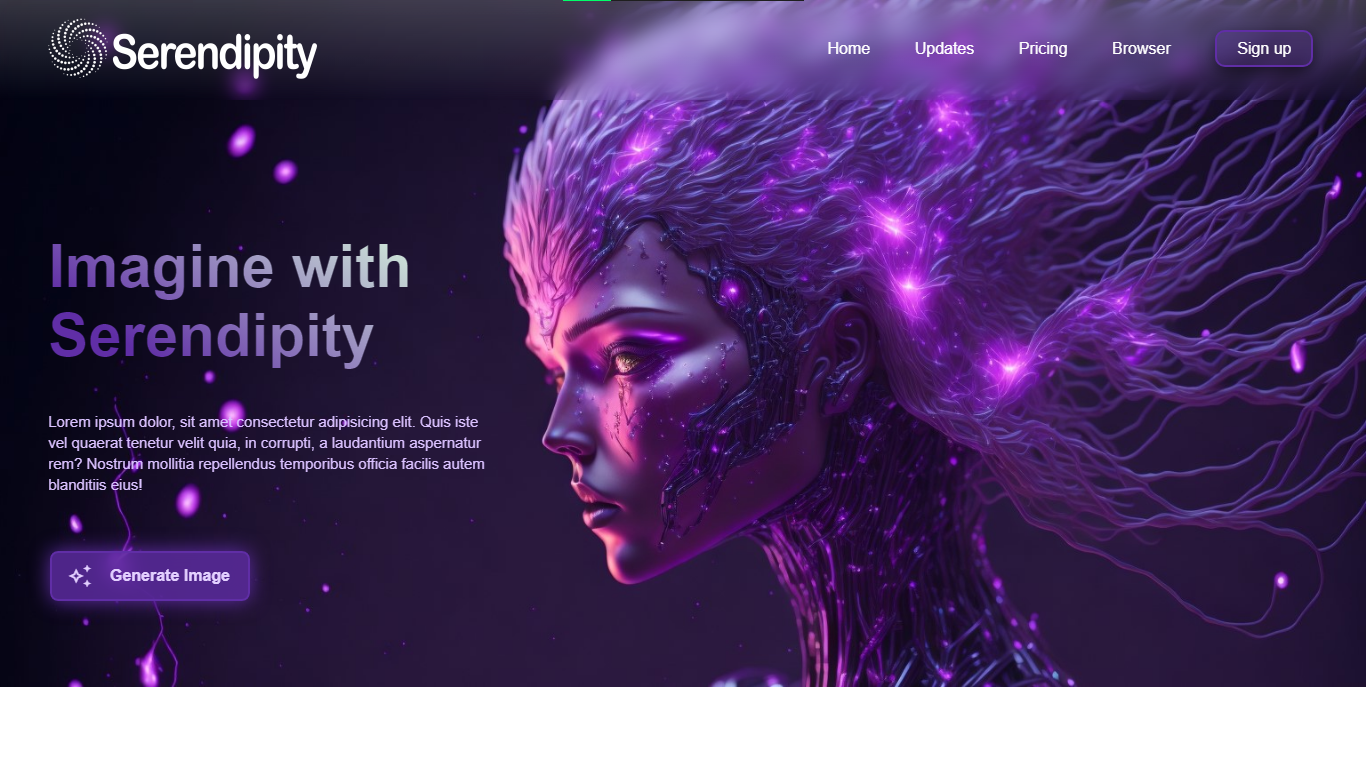
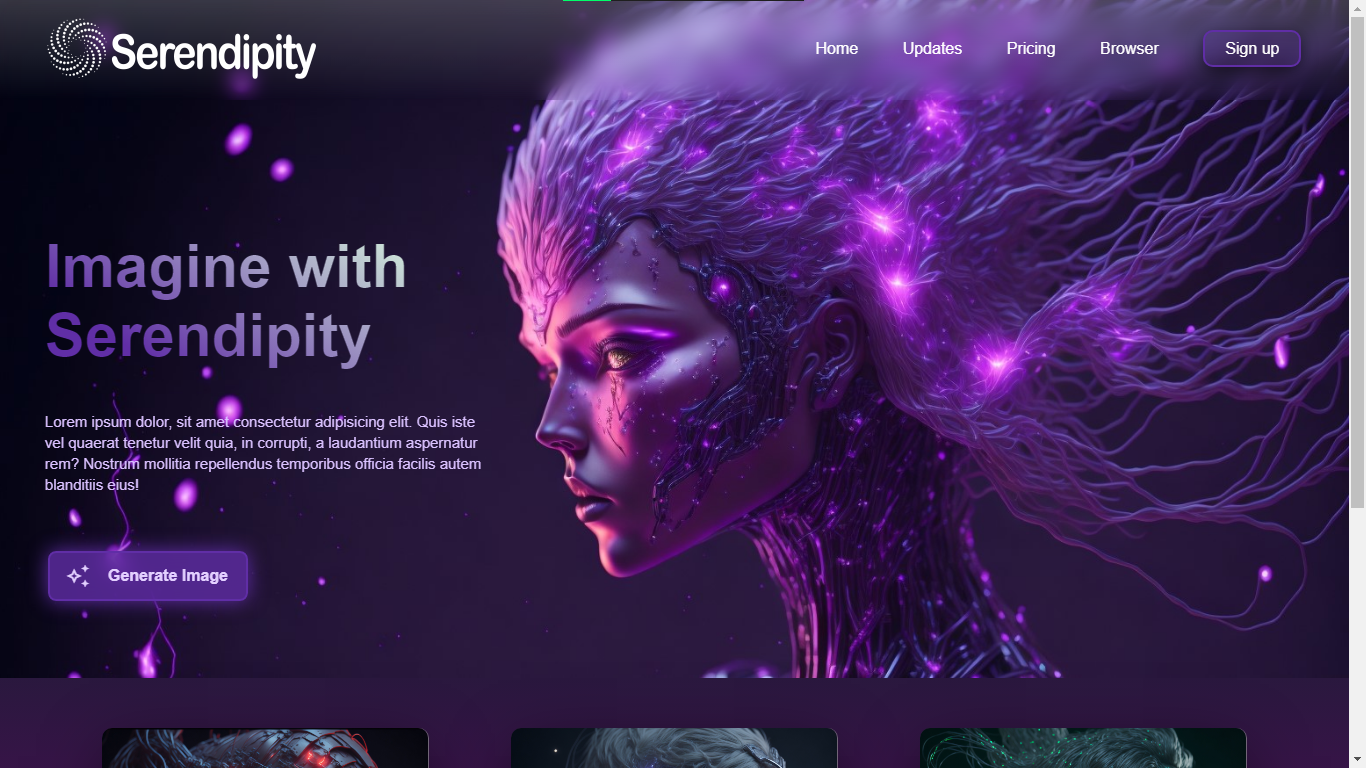
Updates

diff --git a/assets/index-Bfcp8OLX.css b/assets/index-Bfcp8OLX.css
@@ -1,0 +1,1 @@
+*,:before,:after{box-sizing:border-box;border-width:0;border-style:solid;border-color:#e5e7eb}:before,:after{--tw-content: ""}html,:host{line-height:1.5;-webkit-text-size-adjust:100%;-moz-tab-size:4;-o-tab-size:4;tab-size:4;font-family:ui-sans-serif,system-ui,sans-serif,"Apple Color Emoji","Segoe UI Emoji",Segoe UI Symbol,"Noto Color Emoji";font-feature-settings:normal;font-variation-settings:normal;-webkit-tap-highlight-color:transparent}body{margin:0;line-height:inherit}hr{height:0;color:inherit;border-top-width:1px}abbr:where([title]){-webkit-text-decoration:underline dotted;text-decoration:underline dotted}h1,h2,h3,h4,h5,h6{font-size:inherit;font-weight:inherit}a{color:inherit;text-decoration:inherit}b,strong{font-weight:bolder}code,kbd,samp,pre{font-family:ui-monospace,SFMono-Regular,Menlo,Monaco,Consolas,Liberation Mono,Courier New,monospace;font-feature-settings:normal;font-variation-settings:normal;font-size:1em}small{font-size:80%}sub,sup{font-size:75%;line-height:0;position:relative;vertical-align:baseline}sub{bottom:-.25em}sup{top:-.5em}table{text-indent:0;border-color:inherit;border-collapse:collapse}button,input,optgroup,select,textarea{font-family:inherit;font-feature-settings:inherit;font-variation-settings:inherit;font-size:100%;font-weight:inherit;line-height:inherit;color:inherit;margin:0;padding:0}button,select{text-transform:none}button,[type=button],[type=reset],[type=submit]{-webkit-appearance:button;background-color:transparent;background-image:none}:-moz-focusring{outline:auto}:-moz-ui-invalid{box-shadow:none}progress{vertical-align:baseline}::-webkit-inner-spin-button,::-webkit-outer-spin-button{height:auto}[type=search]{-webkit-appearance:textfield;outline-offset:-2px}::-webkit-search-decoration{-webkit-appearance:none}::-webkit-file-upload-button{-webkit-appearance:button;font:inherit}summary{display:list-item}blockquote,dl,dd,h1,h2,h3,h4,h5,h6,hr,figure,p,pre{margin:0}fieldset{margin:0;padding:0}legend{padding:0}ol,ul,menu{list-style:none;margin:0;padding:0}dialog{padding:0}textarea{resize:vertical}input::-moz-placeholder,textarea::-moz-placeholder{opacity:1;color:#9ca3af}input::placeholder,textarea::placeholder{opacity:1;color:#9ca3af}button,[role=button]{cursor:pointer}:disabled{cursor:default}img,svg,video,canvas,audio,iframe,embed,object{display:block;vertical-align:middle}img,video{max-width:100%;height:auto}[hidden]{display:none}*,:before,:after{--tw-border-spacing-x: 0;--tw-border-spacing-y: 0;--tw-translate-x: 0;--tw-translate-y: 0;--tw-rotate: 0;--tw-skew-x: 0;--tw-skew-y: 0;--tw-scale-x: 1;--tw-scale-y: 1;--tw-pan-x: ;--tw-pan-y: ;--tw-pinch-zoom: ;--tw-scroll-snap-strictness: proximity;--tw-gradient-from-position: ;--tw-gradient-via-position: ;--tw-gradient-to-position: ;--tw-ordinal: ;--tw-slashed-zero: ;--tw-numeric-figure: ;--tw-numeric-spacing: ;--tw-numeric-fraction: ;--tw-ring-inset: ;--tw-ring-offset-width: 0px;--tw-ring-offset-color: #fff;--tw-ring-color: rgb(59 130 246 / .5);--tw-ring-offset-shadow: 0 0 #0000;--tw-ring-shadow: 0 0 #0000;--tw-shadow: 0 0 #0000;--tw-shadow-colored: 0 0 #0000;--tw-blur: ;--tw-brightness: ;--tw-contrast: ;--tw-grayscale: ;--tw-hue-rotate: ;--tw-invert: ;--tw-saturate: ;--tw-sepia: ;--tw-drop-shadow: ;--tw-backdrop-blur: ;--tw-backdrop-brightness: ;--tw-backdrop-contrast: ;--tw-backdrop-grayscale: ;--tw-backdrop-hue-rotate: ;--tw-backdrop-invert: ;--tw-backdrop-opacity: ;--tw-backdrop-saturate: ;--tw-backdrop-sepia: }::backdrop{--tw-border-spacing-x: 0;--tw-border-spacing-y: 0;--tw-translate-x: 0;--tw-translate-y: 0;--tw-rotate: 0;--tw-skew-x: 0;--tw-skew-y: 0;--tw-scale-x: 1;--tw-scale-y: 1;--tw-pan-x: ;--tw-pan-y: ;--tw-pinch-zoom: ;--tw-scroll-snap-strictness: proximity;--tw-gradient-from-position: ;--tw-gradient-via-position: ;--tw-gradient-to-position: ;--tw-ordinal: ;--tw-slashed-zero: ;--tw-numeric-figure: ;--tw-numeric-spacing: ;--tw-numeric-fraction: ;--tw-ring-inset: ;--tw-ring-offset-width: 0px;--tw-ring-offset-color: #fff;--tw-ring-color: rgb(59 130 246 / .5);--tw-ring-offset-shadow: 0 0 #0000;--tw-ring-shadow: 0 0 #0000;--tw-shadow: 0 0 #0000;--tw-shadow-colored: 0 0 #0000;--tw-blur: ;--tw-brightness: ;--tw-contrast: ;--tw-grayscale: ;--tw-hue-rotate: ;--tw-invert: ;--tw-saturate: ;--tw-sepia: ;--tw-drop-shadow: ;--tw-backdrop-blur: ;--tw-backdrop-brightness: ;--tw-backdrop-contrast: ;--tw-backdrop-grayscale: ;--tw-backdrop-hue-rotate: ;--tw-backdrop-invert: ;--tw-backdrop-opacity: ;--tw-backdrop-saturate: ;--tw-backdrop-sepia: }.visible{visibility:visible}.fixed{position:fixed}.z-\[999\]{z-index:999}.ml-1{margin-left:.25rem}.ml-1\.5{margin-left:.375rem}.ml-\[0\.2vw\]{margin-left:.2vw}.mt-6{margin-top:1.5rem}.flex{display:flex}.grid{display:grid}.h-\[35vw\]{height:35vw}.h-screen{height:100vh}.w-1{width:.25rem}.w-1\/2{width:50%}.w-10{width:2.5rem}.w-32{width:8rem}.w-40{width:10rem}.w-\[35vw\]{width:35vw}.w-full{width:100%}.-translate-y-full{--tw-translate-y: -100%;transform:translate(var(--tw-translate-x),var(--tw-translate-y)) rotate(var(--tw-rotate)) skew(var(--tw-skew-x)) skewY(var(--tw-skew-y)) scaleX(var(--tw-scale-x)) scaleY(var(--tw-scale-y))}.translate-y-0{--tw-translate-y: 0px;transform:translate(var(--tw-translate-x),var(--tw-translate-y)) rotate(var(--tw-rotate)) skew(var(--tw-skew-x)) skewY(var(--tw-skew-y)) scaleX(var(--tw-scale-x)) scaleY(var(--tw-scale-y))}.rotate-90{--tw-rotate: 90deg;transform:translate(var(--tw-translate-x),var(--tw-translate-y)) rotate(var(--tw-rotate)) skew(var(--tw-skew-x)) skewY(var(--tw-skew-y)) scaleX(var(--tw-scale-x)) scaleY(var(--tw-scale-y))}.transform{transform:translate(var(--tw-translate-x),var(--tw-translate-y)) rotate(var(--tw-rotate)) skew(var(--tw-skew-x)) skewY(var(--tw-skew-y)) scaleX(var(--tw-scale-x)) scaleY(var(--tw-scale-y))}.cursor-default{cursor:default}.cursor-pointer{cursor:pointer}.select-none{-webkit-user-select:none;-moz-user-select:none;user-select:none}.grid-cols-2{grid-template-columns:repeat(2,minmax(0,1fr))}.grid-cols-3{grid-template-columns:repeat(3,minmax(0,1fr))}.grid-cols-4{grid-template-columns:repeat(4,minmax(0,1fr))}.flex-row{flex-direction:row}.flex-col{flex-direction:column}.items-start{align-items:flex-start}.items-center{align-items:center}.justify-center{justify-content:center}.justify-between{justify-content:space-between}.justify-items-start{justify-items:start}.justify-items-center{justify-items:center}.gap-10{gap:2.5rem}.gap-2{gap:.5rem}.gap-3{gap:.75rem}.gap-4{gap:1rem}.gap-6{gap:1.5rem}.overflow-hidden{overflow:hidden}.rounded-full{border-radius:9999px}.rounded-xl{border-radius:.75rem}.rounded-t-xl{border-top-left-radius:.75rem;border-top-right-radius:.75rem}.border-\[1px\]{border-width:1px}.border-\[2px\]{border-width:2px}.border-t-\[1px\]{border-top-width:1px}.border-zinc-800{--tw-border-opacity: 1;border-color:rgb(39 39 42 / var(--tw-border-opacity))}.bg-zinc-200{--tw-bg-opacity: 1;background-color:rgb(228 228 231 / var(--tw-bg-opacity))}.bg-zinc-800{--tw-bg-opacity: 1;background-color:rgb(39 39 42 / var(--tw-bg-opacity))}.p-1{padding:.25rem}.p-10{padding:2.5rem}.p-2{padding:.5rem}.p-20{padding:5rem}.p-3{padding:.75rem}.p-5{padding:1.25rem}.p-6{padding:1.5rem}.px-2{padding-left:.5rem;padding-right:.5rem}.px-20{padding-left:5rem;padding-right:5rem}.px-3{padding-left:.75rem;padding-right:.75rem}.px-4{padding-left:1rem;padding-right:1rem}.px-5{padding-left:1.25rem;padding-right:1.25rem}.py-1{padding-top:.25rem;padding-bottom:.25rem}.py-10{padding-top:2.5rem;padding-bottom:2.5rem}.py-3{padding-top:.75rem;padding-bottom:.75rem}.py-4{padding-top:1rem;padding-bottom:1rem}.py-5{padding-top:1.25rem;padding-bottom:1.25rem}.pl-10{padding-left:2.5rem}.font-mono{font-family:ui-monospace,SFMono-Regular,Menlo,Monaco,Consolas,Liberation Mono,Courier New,monospace}.text-2xl{font-size:1.5rem;line-height:2rem}.text-3xl{font-size:1.875rem;line-height:2.25rem}.text-\[2\.3vh\]{font-size:2.3vh}.text-\[5vw\]{font-size:5vw}.text-\[7vw\]{font-size:7vw}.text-lg{font-size:1.125rem;line-height:1.75rem}.text-sm{font-size:.875rem;line-height:1.25rem}.text-xl{font-size:1.25rem;line-height:1.75rem}.font-bold{font-weight:700}.font-extrabold{font-weight:800}.font-light{font-weight:300}.font-normal{font-weight:400}.font-semibold{font-weight:600}.uppercase{text-transform:uppercase}.leading-8{line-height:2rem}.leading-\[0\.5\]{line-height:.5}.leading-\[1\]{line-height:1}.leading-loose{line-height:2}.leading-none{line-height:1}.leading-relaxed{line-height:1.625}.leading-snug{line-height:1.375}.leading-tight{line-height:1.25}.tracking-normal{letter-spacing:0em}.tracking-tight{letter-spacing:-.025em}.tracking-tighter{letter-spacing:-.05em}.tracking-wider{letter-spacing:.05em}.tracking-widest{letter-spacing:.1em}.text-zinc-200{--tw-text-opacity: 1;color:rgb(228 228 231 / var(--tw-text-opacity))}.text-zinc-300{--tw-text-opacity: 1;color:rgb(212 212 216 / var(--tw-text-opacity))}.text-zinc-400{--tw-text-opacity: 1;color:rgb(161 161 170 / var(--tw-text-opacity))}.text-zinc-600{--tw-text-opacity: 1;color:rgb(82 82 91 / var(--tw-text-opacity))}.text-zinc-800{--tw-text-opacity: 1;color:rgb(39 39 42 / var(--tw-text-opacity))}.shadow-md{--tw-shadow: 0 4px 6px -1px rgb(0 0 0 / .1), 0 2px 4px -2px rgb(0 0 0 / .1);--tw-shadow-colored: 0 4px 6px -1px var(--tw-shadow-color), 0 2px 4px -2px var(--tw-shadow-color);box-shadow:var(--tw-ring-offset-shadow, 0 0 #0000),var(--tw-ring-shadow, 0 0 #0000),var(--tw-shadow)}.shadow-xl{--tw-shadow: 0 20px 25px -5px rgb(0 0 0 / .1), 0 8px 10px -6px rgb(0 0 0 / .1);--tw-shadow-colored: 0 20px 25px -5px var(--tw-shadow-color), 0 8px 10px -6px var(--tw-shadow-color);box-shadow:var(--tw-ring-offset-shadow, 0 0 #0000),var(--tw-ring-shadow, 0 0 #0000),var(--tw-shadow)}.transition{transition-property:color,background-color,border-color,text-decoration-color,fill,stroke,opacity,box-shadow,transform,filter,-webkit-backdrop-filter;transition-property:color,background-color,border-color,text-decoration-color,fill,stroke,opacity,box-shadow,transform,filter,backdrop-filter;transition-property:color,background-color,border-color,text-decoration-color,fill,stroke,opacity,box-shadow,transform,filter,backdrop-filter,-webkit-backdrop-filter;transition-timing-function:cubic-bezier(.4,0,.2,1);transition-duration:.15s}.transition-transform{transition-property:transform;transition-timing-function:cubic-bezier(.4,0,.2,1);transition-duration:.15s}.duration-300{transition-duration:.3s}::-webkit-scrollbar{width:10px}::-webkit-scrollbar-track{background:#e4e4e7}::-webkit-scrollbar-thumb{background:#27272a;border-radius:5px}::-webkit-scrollbar-thumb:hover{background:#0f0f0f}.hover\:w-32:hover{width:8rem}.hover\:scale-105:hover{--tw-scale-x: 1.05;--tw-scale-y: 1.05;transform:translate(var(--tw-translate-x),var(--tw-translate-y)) rotate(var(--tw-rotate)) skew(var(--tw-skew-x)) skewY(var(--tw-skew-y)) scaleX(var(--tw-scale-x)) scaleY(var(--tw-scale-y))}.hover\:bg-zinc-300:hover{--tw-bg-opacity: 1;background-color:rgb(212 212 216 / var(--tw-bg-opacity))}.hover\:bg-zinc-800:hover{--tw-bg-opacity: 1;background-color:rgb(39 39 42 / var(--tw-bg-opacity))}.hover\:text-zinc-200:hover{--tw-text-opacity: 1;color:rgb(228 228 231 / var(--tw-text-opacity))}.hover\:underline:hover{text-decoration-line:underline}.hover\:brightness-\[0\.6\]:hover{--tw-brightness: brightness(.6);filter:var(--tw-blur) var(--tw-brightness) var(--tw-contrast) var(--tw-grayscale) var(--tw-hue-rotate) var(--tw-invert) var(--tw-saturate) var(--tw-sepia) var(--tw-drop-shadow)}@media not all and (min-width: 1024px){.max-lg\:grid-cols-1{grid-template-columns:repeat(1,minmax(0,1fr))}.max-lg\:flex-col{flex-direction:column}.max-lg\:items-center{align-items:center}.max-lg\:justify-center{justify-content:center}.max-lg\:p-0{padding:0}.max-lg\:px-2{padding-left:.5rem;padding-right:.5rem}.max-lg\:py-5{padding-top:1.25rem;padding-bottom:1.25rem}.max-lg\:text-center{text-align:center}}@media not all and (min-width: 768px){.max-md\:grid-cols-1{grid-template-columns:repeat(1,minmax(0,1fr))}.max-md\:grid-cols-3{grid-template-columns:repeat(3,minmax(0,1fr))}.max-md\:p-0{padding:0}.max-md\:text-3xl{font-size:1.875rem;line-height:2.25rem}}@media not all and (min-width: 640px){.max-sm\:hidden{display:none}.max-sm\:w-\[80vw\]{width:80vw}.max-sm\:grid-cols-1{grid-template-columns:repeat(1,minmax(0,1fr))}.max-sm\:grid-cols-2{grid-template-columns:repeat(2,minmax(0,1fr))}.max-sm\:justify-center{justify-content:center}.max-sm\:gap-5{gap:1.25rem}.max-sm\:text-center{text-align:center}.max-sm\:text-\[10vw\]{font-size:10vw}.max-sm\:text-\[2vh\]{font-size:2vh}.max-sm\:text-\[6vw\]{font-size:6vw}.max-sm\:text-xl{font-size:1.25rem;line-height:1.75rem}}@media (min-width: 640px){.sm\:w-\[60vw\]{width:60vw}}@media (min-width: 768px){.md\:w-\[100\%\]{width:100%}.md\:w-\[50vw\]{width:50vw}.md\:p-10{padding:2.5rem}.md\:px-10{padding-left:2.5rem;padding-right:2.5rem}.md\:py-5{padding-top:1.25rem;padding-bottom:1.25rem}}

diff --git a/index.html b/index.html
@@ -4,8 +4,8 @@
     <meta charset="UTF-8" />
     <meta name="viewport" content="width=device-width, initial-scale=1.0" />
     <title>ZAID's Porfolio</title>
-    <script type="module" crossorigin src="/thezaidushaikh/assets/index-CtPiUFze.js"></script>
-    <link rel="stylesheet" crossorigin href="/thezaidushaikh/assets/index-CxtCpmrx.css">
+    <script type="module" crossorigin src="/thezaidushaikh/assets/index-DjFYfsuV.js"></script>
+    <link rel="stylesheet" crossorigin href="/thezaidushaikh/assets/index-Bfcp8OLX.css">
   </head>
   <body oncontextmenu="return false;">
     <div id="root"></div>
